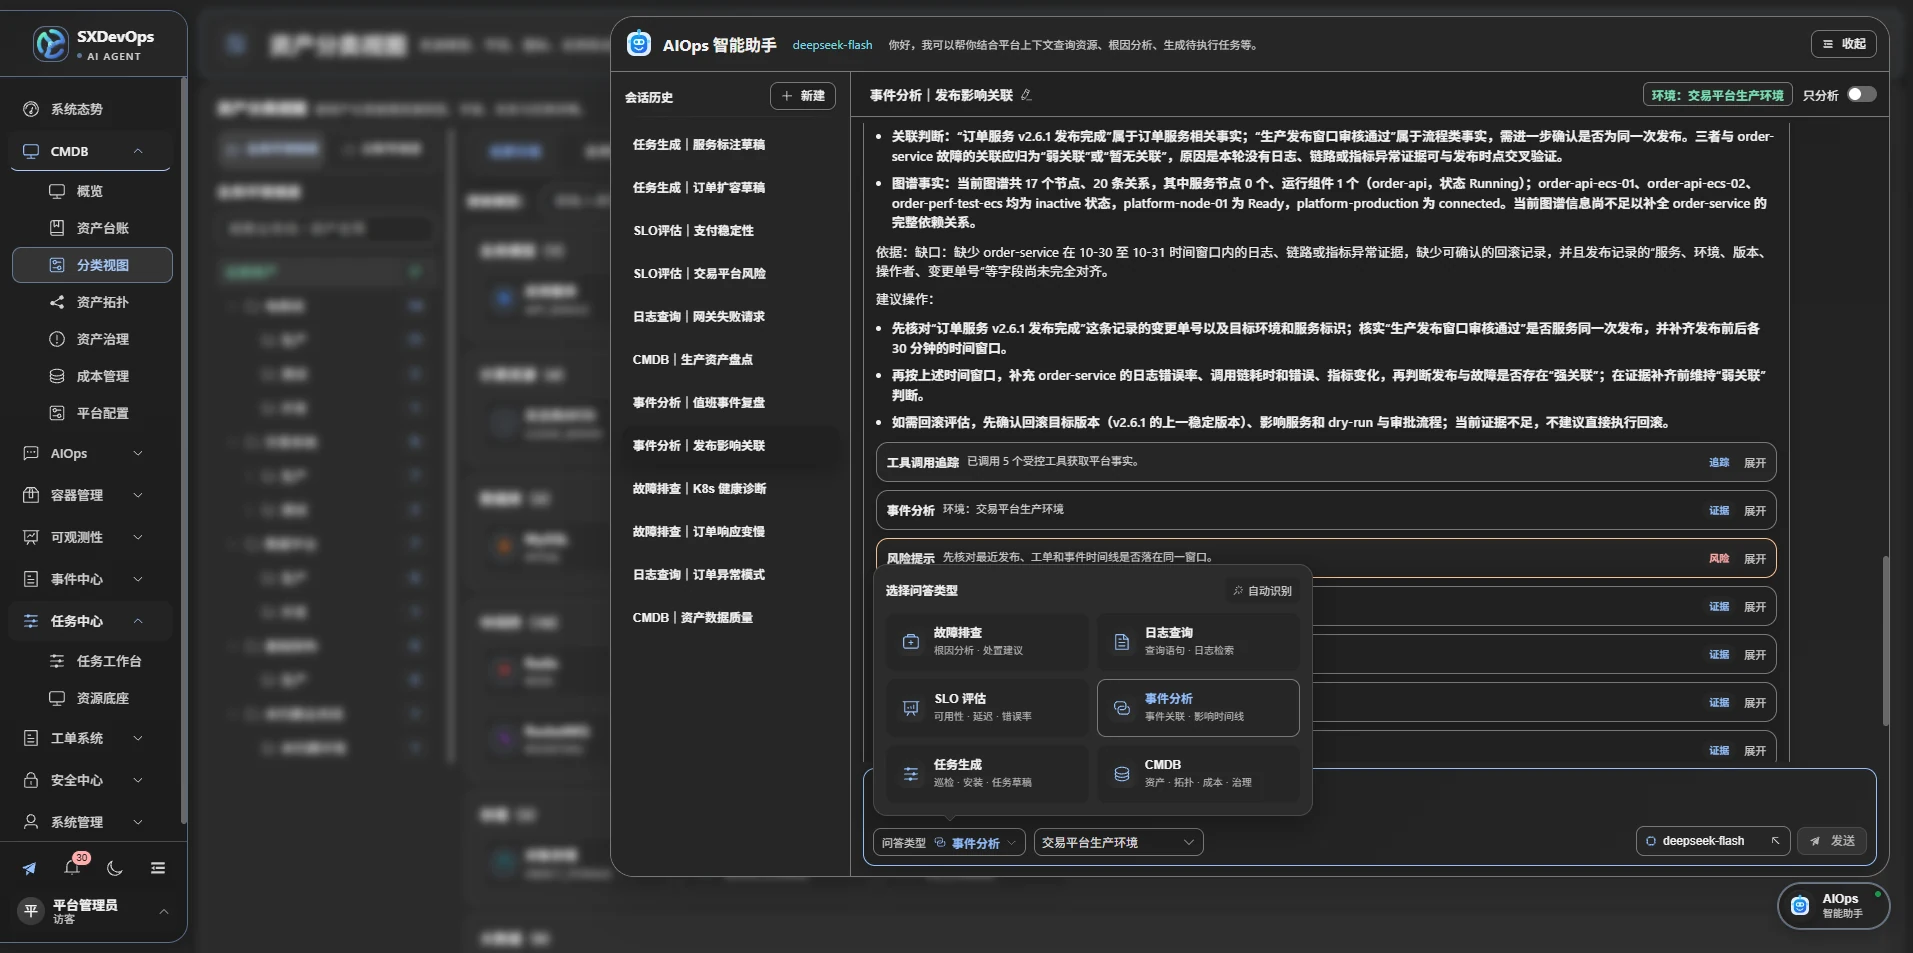
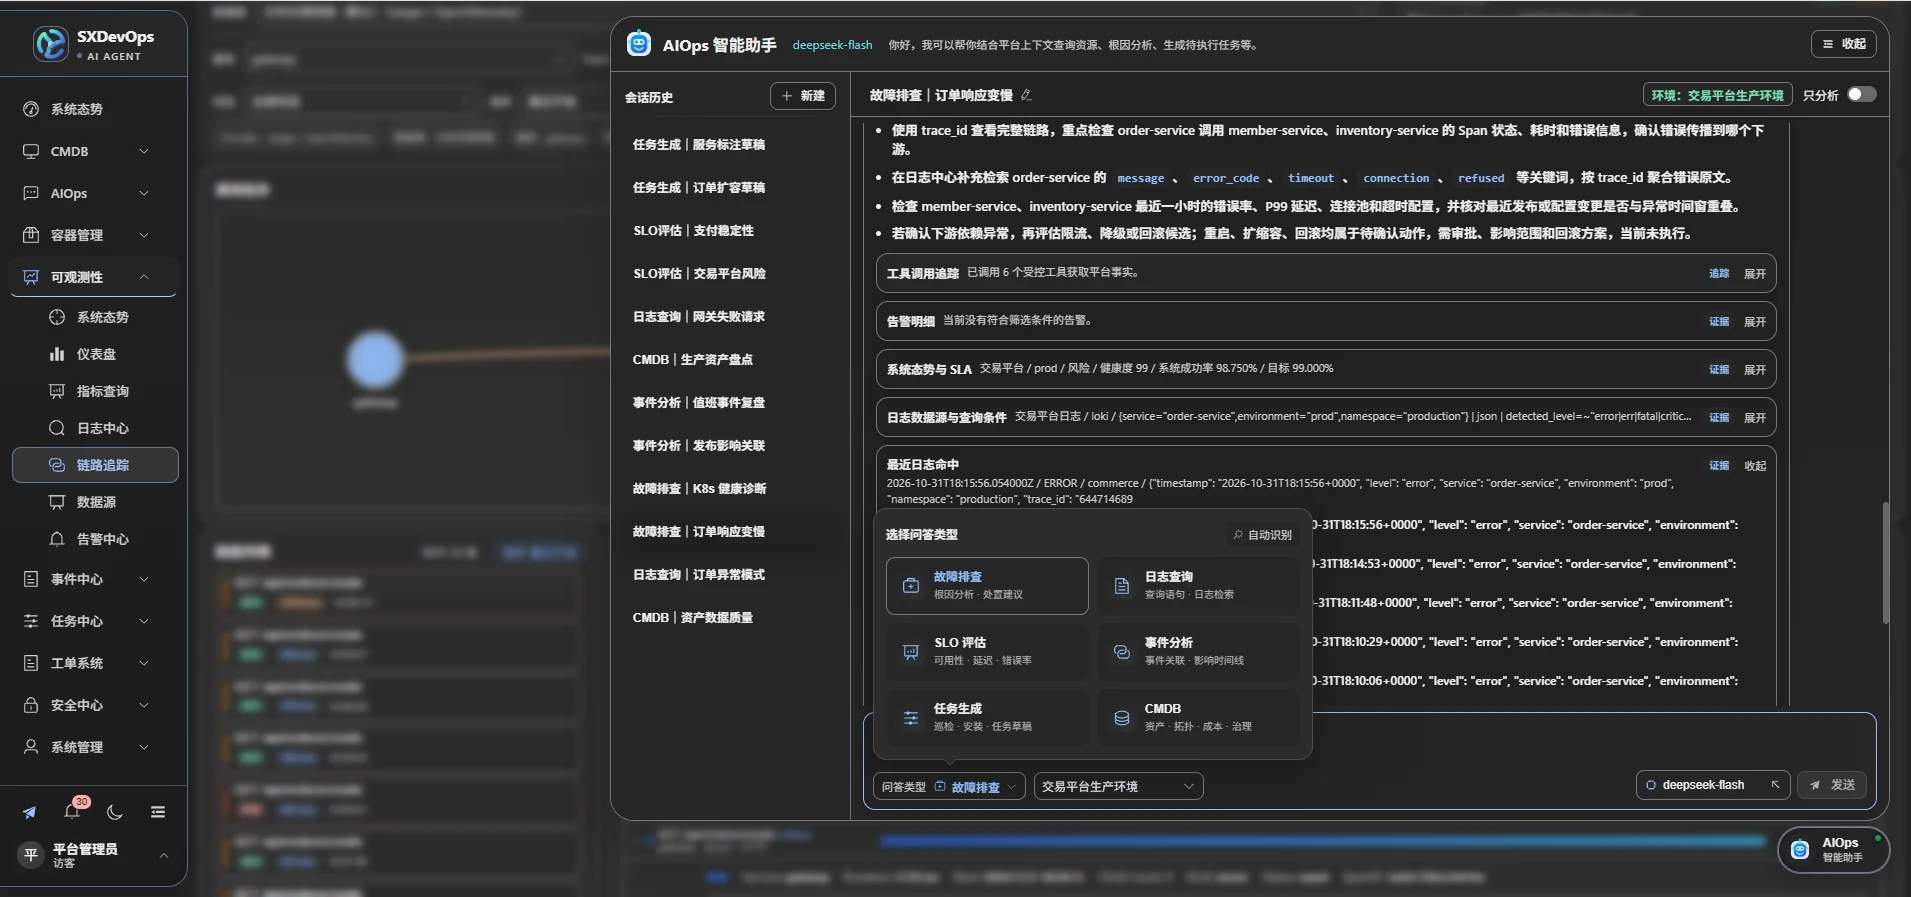
docs(product): refresh assistant screenshot

diff --git a/frontend/src/views/ProductIntro.vue b/frontend/src/views/ProductIntro.vue
@@ -227,7 +227,7 @@ const workflow = [
   { title: '留痕复盘', icon: Finished, description: '查看执行与审计，按配置验证告警恢复。' },
 ]
 const screenshots = [
-  { id: 'assistant', label: '智能助手', icon: MagicStick, path: 'workspace / aiops / chat', src: '/promo/v2/assistant.webp?v=313097114c3c', width: 1913, height: 953, title: '用一个问题，打开有上下文的运维分析', description: '围绕资源与证据展开对话，查看分析依据、建议与后续操作入口。', alt: '智能助手真实产品截图：事件分析、平台取证、历史会话和问答类型选择' },
+  { id: 'assistant', label: '智能助手', icon: MagicStick, path: 'workspace / aiops / chat', src: '/promo/v2/assistant.webp?v=19b2c01d4c12', width: 1911, height: 897, title: '用一个问题，打开有上下文的运维分析', description: '围绕资源与证据展开对话，查看分析依据、建议与后续操作入口。', alt: '智能助手真实产品截图：故障排查、日志证据、历史会话和问答类型选择' },
   { id: 'agent-config', label: '智能体配置', icon: MagicStick, path: 'workspace / aiops / config', src: '/promo/v2/agent-config.webp?v=eba19eb80061', title: '把助手的能力与边界，配置清楚', description: '配置建议问题、系统提示词与能力范围，明确默认模型和任务草稿生成方式。', alt: '智能体配置真实产品截图：建议问题、系统提示词、能力范围、默认模型与人工确认提示' },
   { id: 'posture', label: '系统态势', icon: Monitor, path: 'workspace / dashboard', src: '/promo/v2/posture.webp?v=d4c700bc1149', title: '先看全局态势，再收敛故障边界', description: '按环境与系统查看 SLA 历史和当前状态，区分故障、未知与数据缺口。', alt: '系统态势真实产品截图：系统统计、环境筛选、SLA 历史条带与当前状态' },
   { id: 'slo', label: '系统 SLO', icon: Finished, path: 'workspace / observability / system-posture', src: '/promo/v2/slo.webp?v=e97fefb8719e', title: '从可用率与错误预算，判断服务风险', description: '集中查看各系统的 SLO 达标情况、可用率与错误预算，展开服务详情定位风险。', alt: '系统 SLO 真实产品截图：系统目标卡片、可用率、错误预算与服务详情面板' },

diff --git a/docs/screenshots/README.md b/docs/screenshots/README.md
@@ -10,7 +10,7 @@
 | [v2-dashboard.png](v2-dashboard.png) | 系统态势、SLA 与历史可用率 |
 | [v2-cmdb-overview.png](v2-cmdb-overview.png) | CMDB 容量、资产及治理入口 |
 | [v2-cmdb-topology.png](v2-cmdb-topology.png) | 资产拓扑、业务环境树和分类关系规则 |
-| [assistant-demo-20261101.png](assistant-demo-20261101.png) | 智能助手事件分析、平台取证、会话历史及问答类型选择 |
+| [assistant-demo-20261101.png](assistant-demo-20261101.png) | 智能助手故障排查、日志证据、会话历史及问答类型选择 |
 | [execution-trace-fix-20261101.png](execution-trace-fix-20261101.png) | LangGraph 执行追踪、节点时间线及 Checkpoint |
 | [v2-aiops-sessions.png](v2-aiops-sessions.png) | 智能体审计的模型与工具调用统计 |
 | [session-audit-20261101.png](session-audit-20261101.png) | 智能体配置、建议问题、系统提示词与能力范围 |
@@ -26,7 +26,7 @@
 
 ## 产品介绍截图映射
 
-产品页使用 `frontend/public/promo/v2/` 下的 WebP 展示副本，保留 PNG 原图。副本保留各自原始分辨率，使用 WebP 质量 88 压缩，不裁切界面内容。智能助手截图于 2026-11-02 更新为用户提供的 1913 × 953 原图，其余界面截图为 1679 × 944。
+产品页使用 `frontend/public/promo/v2/` 下的 WebP 展示副本，保留 PNG 原图。副本保留各自原始分辨率，使用 WebP 质量 88 压缩，不裁切界面内容。智能助手截图于 2026-11-03 更新为用户提供的 1911 × 897 原图，其余界面截图为 1679 × 944。
 
 | 界面一览 | PNG 来源 | WebP 展示副本 |
 | --- | --- | --- |

diff --git a/README.md b/README.md
@@ -219,7 +219,7 @@ flowchart TB
 
 默认聊天支持分阶段取证和断点恢复，执行追踪可查看节点与动作结果。
 
-![智能助手事件分析、平台取证与问答类型选择](docs/screenshots/assistant-demo-20261101.png)
+![智能助手故障排查、日志证据与问答类型选择](docs/screenshots/assistant-demo-20261101.png)
 
 ![LangGraph 执行追踪与节点时间线](docs/screenshots/execution-trace-fix-20261101.png)
 
